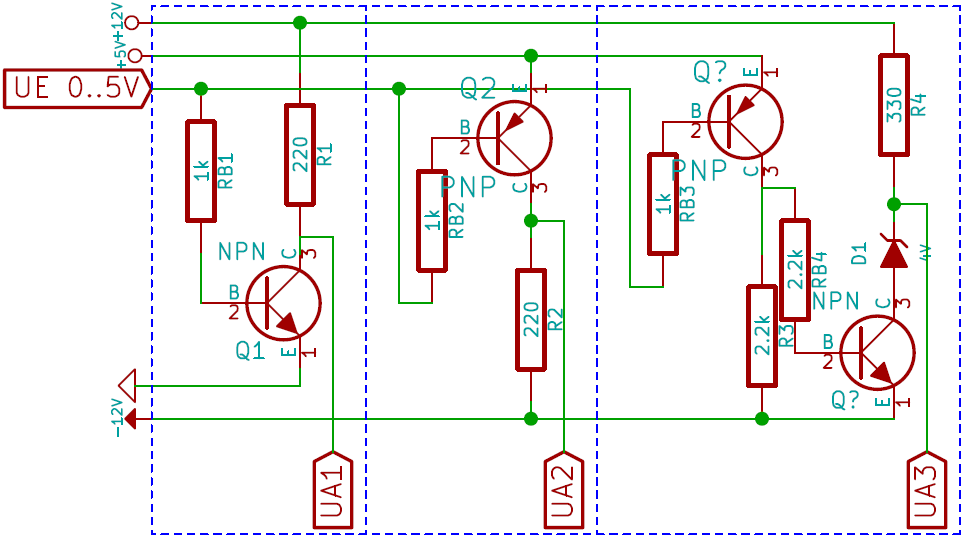
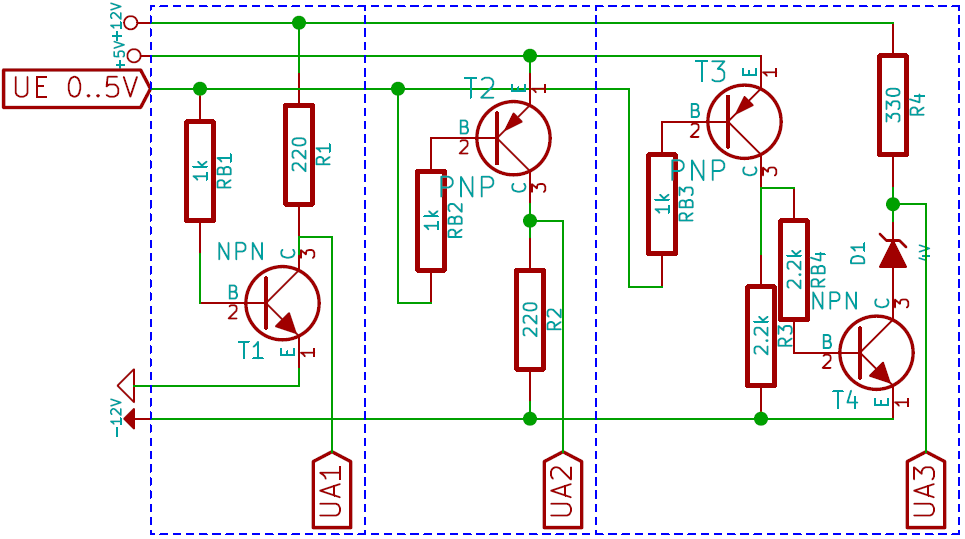
Bezeichnungen auf Bild von Transistoren geändert

diff --git a/doku/content/02_uebersicht.tex b/doku/content/02_uebersicht.tex
@@ -103,7 +103,7 @@ Der Einplatinen-Computer hat folgende Aufgaben:
 	\item Berechnete Position darstellen
 	\item Ein \ac{GUI} bereitstellen
 \end{itemize}
-Für diesen Zweck wurde ein \textit{Raspberry PI} verwendet. Er besitzt ein \ac{GPIO}-Interface, mit dem die Mikrocontroller gesteuert werden können, sowie ein \ac{HDMI}-Ausgang für die Visualisierung auf einem Bildschirm. Auf dem Computer läuft ein \textit{Archlinux}, dass speziell für die mobilen \textit{ARM}-Prozessoren angepasst wurde.\footnote{\url{http://archlinuxarm.org/}}
+Für diesen Zweck wird ein \textit{Raspberry PI} verwendet. Er besitzt ein \ac{GPIO}-Interface, mit dem die Mikrocontroller gesteuert werden können, sowie ein \ac{HDMI}-Ausgang für die Visualisierung auf einem Bildschirm. Auf dem Computer läuft ein \textit{Archlinux}, dass speziell für die mobilen \textit{ARM}-Prozessoren angepasst wurde.\footnote{\url{http://archlinuxarm.org/}}
 
 
 
